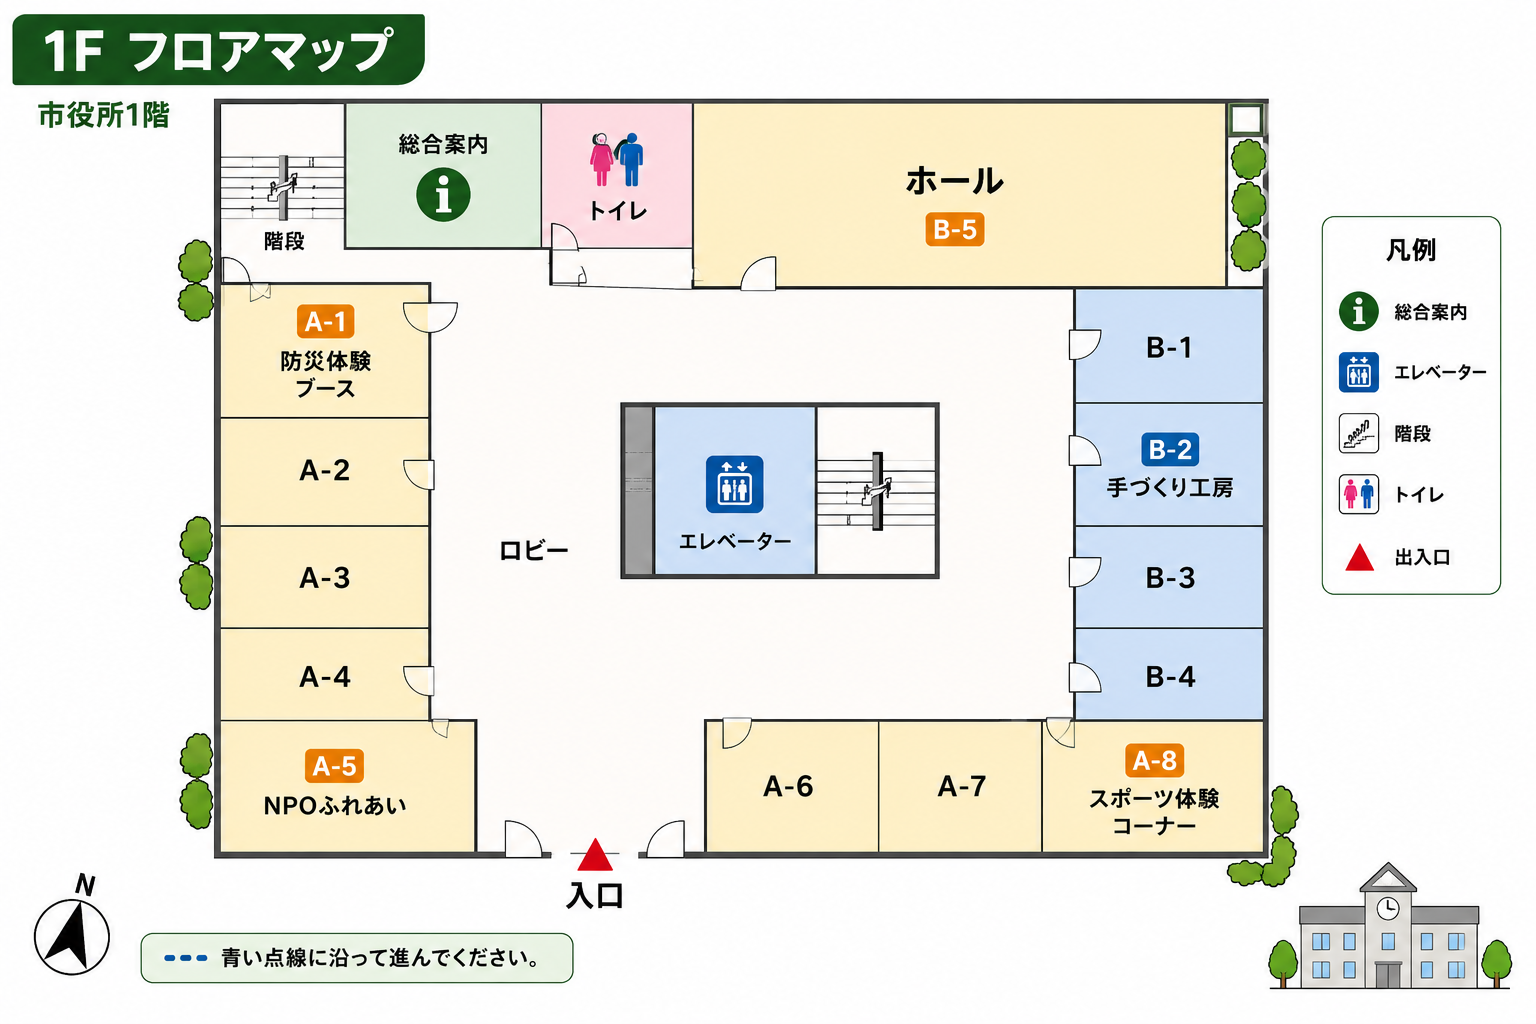
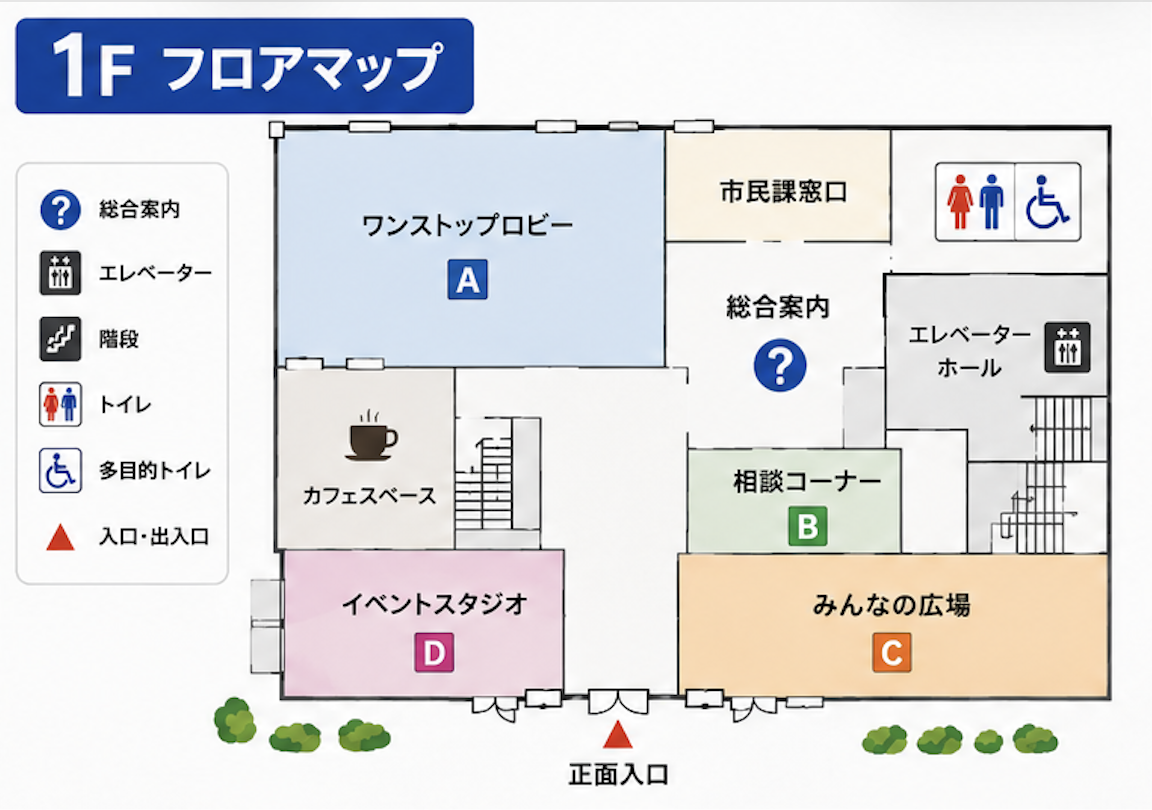
Updated

diff --git a/script.js b/script.js
@@ -1,20 +1,244 @@
 const events = [
-  { name:'NPOふれあい', tag:'体験・ワークショップ', genre:'体験', time:'10:00 - 12:00', place:'市役所1Fロビー', booth:'A-5', desc:'地域の交流を目的としたワークショップを行います。', floor:'1F', x:26, y:80, walk:'約30秒', startX:38, startY:84 },
-  { name:'手づくり工房', tag:'販売・体験', genre:'体験', time:'10:00 - 15:00', place:'市役所1Fロビー', booth:'B-2', desc:'手作り雑貨の販売と簡単な制作体験ができます。', floor:'1F', x:77, y:46, walk:'約40秒', startX:38, startY:84 },
-  { name:'こども未来クラブ', tag:'子ども向け', genre:'子ども向け', time:'12:00 - 15:00', place:'市役所2F多目的室', booth:'C-1', desc:'親子で参加できる楽しいイベントです。', floor:'2F', x:22, y:35, walk:'約1分', startX:47, startY:83 },
-  { name:'健康サポート町田', tag:'健康相談', genre:'相談会', time:'15:00 - 17:00', place:'市役所3F研修室', booth:'D-4', desc:'健康チェックと生活相談を行います。', floor:'3F', x:72, y:23, walk:'約1分30秒', startX:48, startY:84 },
-  { name:'シニアスマホ相談会', tag:'相談会', genre:'相談会', time:'10:00 - 16:00', place:'市役所2F会議室B', booth:'C-7', desc:'スマートフォンの使い方を丁寧にサポートします。', floor:'2F', x:61, y:19, walk:'約1分', startX:47, startY:83 },
-  { name:'防災体験ブース', tag:'防災・体験', genre:'体験', time:'10:00 - 15:00', place:'市役所1F入口付近', booth:'A-1', desc:'防災グッズや避難体験ができます。', floor:'1F', x:21, y:34, walk:'約20秒', startX:38, startY:84 },
-  { name:'まちだ音楽クラブ', tag:'音楽', genre:'音楽', time:'13:00 - 15:00', place:'市役所3Fホール', booth:'E-2', desc:'地域の音楽グループによる演奏会です。', floor:'3F', x:52, y:20, walk:'約1分20秒', startX:48, startY:84 },
-  { name:'ボランティア相談会', tag:'相談会', genre:'相談会', time:'11:00 - 16:00', place:'市役所2F会議室A', booth:'C-5', desc:'地域ボランティア活動について相談できます。', floor:'2F', x:47, y:19, walk:'約55秒', startX:47, startY:83 },
-  { name:'環境エコ展示', tag:'展示', genre:'展示', time:'10:00 - 17:00', place:'市役所3F展示室', booth:'D-1', desc:'環境保全活動やリサイクルについて紹介します。', floor:'3F', x:77, y:46, walk:'約1分10秒', startX:48, startY:84 },
-  { name:'地域交流カフェ', tag:'交流', genre:'交流', time:'10:00 - 17:00', place:'市役所3F会議室', booth:'D-5', desc:'地域住民同士が気軽に交流できるカフェです。', floor:'3F', x:25, y:53, walk:'約1分', startX:48, startY:84 },
-  { name:'英会話サークル', tag:'学習・交流', genre:'交流', time:'13:00 - 16:00', place:'市役所2F研修室', booth:'C-8', desc:'初心者向け英会話体験レッスンを行います。', floor:'2F', x:83, y:37, walk:'約1分', startX:47, startY:83 },
-  { name:'子ども工作教室', tag:'子ども向け', genre:'子ども向け', time:'10:00 - 14:00', place:'市役所2F多目的室', booth:'C-2', desc:'自由工作やクラフト作りを楽しめます。', floor:'2F', x:23, y:48, walk:'約1分10秒', startX:47, startY:83 },
-  { name:'町田歴史研究会', tag:'展示', genre:'展示', time:'10:00 - 16:00', place:'市役所3F展示室', booth:'D-6', desc:'町田の歴史資料や写真を展示しています。', floor:'3F', x:76, y:66, walk:'約1分20秒', startX:48, startY:84 },
-  { name:'スポーツ体験コーナー', tag:'体験', genre:'体験', time:'11:00 - 15:00', place:'市役所3F研修室', booth:'D-7', desc:'簡単なスポーツ体験ができます。', floor:'3F', x:24, y:75, walk:'約1分20秒', startX:48, startY:84 },
-  { name:'ペット相談会', tag:'相談会', genre:'相談会', time:'12:00 - 16:00', place:'市役所2F会議室B', booth:'C-9', desc:'ペットの健康や飼育について相談できます。', floor:'2F', x:83, y:56, walk:'約1分15秒', startX:47, startY:83 }
-];
+  {
+    name:'謎解きスタンプラリー',
+    tag:'体験・ワークショップ',
+    genre:'体験',
+    time:'10:00 - 17:00',
+    place:'市役所1F ワンストップロビー',
+    booth:'A',
+    desc:'市役所に隠された謎を解きながら楽しめるスタンプラリーです。',
+    floor:'1F',
+    x:36,
+    y:24,
+    walk:'約30秒',
+    startX:50,
+    startY:92
+  },
+  
+  {
+    name:'手づくり工房',
+    tag:'販売・体験',
+    genre:'体験',
+    time:'10:00 - 15:00',
+    place:'市役所1F みんなの広場',
+    booth:'C',
+    desc:'手作り雑貨の販売と簡単な制作体験ができます。',
+    floor:'1F',
+    x:76,
+    y:78,
+    walk:'約40秒',
+    startX:50,
+    startY:92
+  },
+  
+  {
+    name:'こども未来クラブ',
+    tag:'子ども向け',
+    genre:'子ども向け',
+    time:'12:00 - 15:00',
+    place:'市役所2F キッズスペース',
+    booth:'E',
+    desc:'親子で参加できる楽しいイベントです。',
+    floor:'2F',
+    x:88,
+    y:82,
+    walk:'約1分',
+    startX:18,
+    startY:55
+  },
+  
+  {
+    name:'健康サポート町田',
+    tag:'健康相談',
+    genre:'相談会',
+    time:'15:00 - 17:00',
+    place:'市役所3F 研修室',
+    booth:'A',
+    desc:'健康チェックと生活相談を行います。',
+    floor:'3F',
+    x:28,
+    y:20,
+    walk:'約1分',
+    startX:18,
+    startY:56
+  },
+  
+  {
+    name:'スマホ相談&見直し',
+    tag:'相談会',
+    genre:'相談会',
+    time:'10:00 - 16:00',
+    place:'市役所2F 会議室B',
+    booth:'B',
+    desc:'スマートフォンの使い方や料金の見直しについて相談できます。',
+    floor:'2F',
+    x:58,
+    y:18,
+    walk:'約1分',
+    startX:18,
+    startY:55
+  },
+  
+  {
+    name:'防災ゲーム',
+    tag:'防災・体験',
+    genre:'体験',
+    time:'10:00 - 15:00',
+    place:'市役所1F イベントスタジオ',
+    booth:'D',
+    desc:'ゲームを通して防災について楽しく学べます。',
+    floor:'1F',
+    x:33,
+    y:79,
+    walk:'約30秒',
+    startX:50,
+    startY:92
+  },
+  
+  {
+    name:'オカリナ＆ピアノ演奏',
+    tag:'音楽',
+    genre:'音楽',
+    time:'13:00 - 15:00',
+    place:'市役所3F ホール',
+    booth:'D',
+    desc:'オカリナとピアノによる演奏を楽しめます。',
+    floor:'3F',
+    x:30,
+    y:80,
+    walk:'約1分20秒',
+    startX:18,
+    startY:56
+  },
+  
+  {
+    name:'ボランティア相談会',
+    tag:'相談会',
+    genre:'相談会',
+    time:'11:00 - 16:00',
+    place:'市役所1F 相談コーナー',
+    booth:'B',
+    desc:'地域ボランティア活動について相談できます。',
+    floor:'1F',
+    x:66,
+    y:56,
+    walk:'約40秒',
+    startX:50,
+    startY:92
+  },
+  
+  {
+    name:'生きものを守る活動の紹介',
+    tag:'展示',
+    genre:'展示',
+    time:'10:00 - 17:00',
+    place:'市役所3F 展示室',
+    booth:'C',
+    desc:'地域の生きものを守る活動について紹介します。',
+    floor:'3F',
+    x:72,
+    y:20,
+    walk:'約1分',
+    startX:18,
+    startY:56
+  },
+  
+  {
+    name:'地域交流カフェ',
+    tag:'交流',
+    genre:'交流',
+    time:'10:00 - 17:00',
+    place:'市役所1F カフェスペース',
+    booth:'Cafe',
+    desc:'地域住民同士が気軽に交流できるカフェです。',
+    floor:'1F',
+    x:24,
+    y:56,
+    walk:'約30秒',
+    startX:50,
+    startY:92
+  },
+  
+  {
+    name:'明日からスマホがもっと楽しくなる',
+    tag:'学習・交流',
+    genre:'交流',
+    time:'13:00 - 16:00',
+    place:'市役所2F 会議室A',
+    booth:'A',
+    desc:'スマートフォンをもっと楽しく使うための体験型イベントです。',
+    floor:'2F',
+    x:30,
+    y:18,
+    walk:'約1分',
+    startX:18,
+    startY:55
+  },
+  
+  {
+    name:'リサイクル工作',
+    tag:'子ども向け',
+    genre:'子ども向け',
+    time:'10:00 - 14:00',
+    place:'市役所2F 多目的室',
+    booth:'C',
+    desc:'身近な材料を使って工作を楽しめます。',
+    floor:'2F',
+    x:26,
+    y:82,
+    walk:'約1分',
+    startX:18,
+    startY:55
+  },
+  
+  {
+    name:'町田歴史研究会',
+    tag:'展示',
+    genre:'展示',
+    time:'10:00 - 16:00',
+    place:'市役所3F 図書・情報コーナー',
+    booth:'E',
+    desc:'町田の歴史資料や写真を展示しています。',
+    floor:'3F',
+    x:56,
+    y:80,
+    walk:'約1分20秒',
+    startX:18,
+    startY:56
+  },
+  
+  {
+    name:'スポーツ体験コーナー',
+    tag:'体験',
+    genre:'体験',
+    time:'11:00 - 15:00',
+    place:'市役所2F 食堂・休憩スペース',
+    booth:'F',
+    desc:'簡単なスポーツ体験ができます。',
+    floor:'2F',
+    x:60,
+    y:82,
+    walk:'約1分',
+    startX:18,
+    startY:55
+  },
+  
+  {
+    name:'ペット相談会',
+    tag:'相談会',
+    genre:'相談会',
+    time:'12:00 - 16:00',
+    place:'市役所3F 会議室',
+    booth:'F',
+    desc:'ペットの健康や飼育について相談できます。',
+    floor:'3F',
+    x:88,
+    y:80,
+    walk:'約1分',
+    startX:18,
+    startY:56
+  }
+  ];
 
 const $ = (id) => document.getElementById(id);
 const results = $('results');
@@ -99,14 +323,30 @@ function filterEvents(){
 }
 
 function drawRoute(event){
-  const startX = event.startX;
-  const startY = event.startY;
-  const bendY = Math.min(84, Math.max(28, Number(event.y) + 8));
+  let startX, startY, turnX, turnY;
 
-  routeLine.setAttribute(
-    'points',
-    `${startX},${startY} ${startX},${bendY} ${event.x},${bendY} ${event.x},${event.y}`
-  );
+  if(event.floor === "1F"){
+    startX = 50;
+    startY = 92;
+    turnX = 50;
+    turnY = 84;  
+  }
+  else if(event.floor === "2F"){
+    startX = 28;  
+    startY = 58;   
+    turnX = event.x;
+    turnY = 58;    
+  }
+  else if(event.floor === "3F"){
+    startX = 28;   
+    startY = 58;   
+    turnX = event.x;
+    turnY = 58;   
+  }
+
+  let points = `${startX},${startY} ${turnX},${turnY} ${event.x},${event.y}`;
+  
+  routeLine.setAttribute("points", points);
 }
 
 function showMap(event, shouldScroll=false){

diff --git a/style.css b/style.css
@@ -10,12 +10,11 @@
   
   .route polyline{
     fill:none;
-    stroke:#0b5cad;
-    stroke-width:1.8;
+    stroke:#1565c0;
+    stroke-width:-15;
     stroke-linecap:round;
     stroke-linejoin:round;
-    stroke-dasharray:2 2;
-  }
+}
   
   .floor-image{
     position:relative;
@@ -23,8 +22,12 @@
   }
   
   .pin{
+    position:absolute;
+    transform:translate(-50%,-100%);
     z-index:100;
-  }
+    font-size:26px;
+    transition:all .45s ease;
+}
 
   .qr-section{
     text-align:center;
@@ -33,15 +36,6 @@
     background:#ffffff;
     border-radius:20px;
     box-shadow:0 4px 12px rgba(0,0,0,0.1);
-  }
-  
-  .qr-section{
-    text-align:center;
-    margin-top:30px;
-    padding:35px 20px;
-    background:#ffffff;
-    border-radius:24px;
-    box-shadow:0 8px 24px rgba(0,0,0,0.08);
   }
   
   .qr-section img{